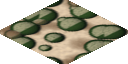
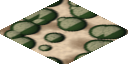
fix(art): keep the winter twig haze off conifer crowns
Crowns paint in size order, so a larger bare crown after a smaller
conifer blended its twigs over the conifer and its snow. Twigs now only
blend where the floor still shows. A test checks that nothing raised in
the winter forest carries the twig tone; the old forest fails it on 409
texels.

Refs #84

Changed region(s): [[0.0312, 0.4688, 0.1562, 0.625], [0.25, 0.3125, 0.375, 0.4062], [0.5312, 0.0, 0.625, 0.125]]

diff --git a/scripts/art/ground.py b/scripts/art/ground.py
@@ -148,6 +148,7 @@ FOLIAGE = {
 }
 CONIFER = (0.18, 0.34, 0.20)
 FLOOR = (0.28, 0.30, 0.15)
+FLOOR_HEIGHT = -0.15
 TWIGS = (0.46, 0.42, 0.38)
 SNOW = (0.84, 0.90, 0.98)  # cool, so the warm sun leaves it white rather than cream
 
@@ -161,7 +162,7 @@ def forest(season: str = "spring") -> Surface:
     rng = np.random.default_rng(11)
     uu, vv = _grid()
     winter = season == "winter"
-    height = np.full((SIZE, SIZE), -0.15)
+    height = np.full((SIZE, SIZE), FLOOR_HEIGHT)
     albedo = np.empty((SIZE, SIZE, 3))
     albedo[:] = SNOW if winter else FLOOR
     albedo *= (1 + 0.12 * noise("forest-floor", 0.1))[..., None]
@@ -174,7 +175,8 @@ def forest(season: str = "spring") -> Surface:
         lift = 0.1 * rng.random()
         d = _wrapped_distance(uu, vv, cu, cv) / radius
         if winter and not conifer:
-            twigs = (d < 1) * (0.35 + 0.45 * lace) * (1 - d.clip(0, 1) ** 2)
+            on_floor = height <= FLOOR_HEIGHT  # never over a crown painted before
+            twigs = (d < 1) * on_floor * (0.35 + 0.45 * lace) * (1 - d.clip(0, 1) ** 2)
             albedo = albedo * (1 - twigs[..., None]) + np.array(TWIGS) * twigs[..., None]
             continue
         crown = np.sqrt(np.clip(1 - d**2, 0, 1)) * min(radius * TILE_METRES, 0.45) + lift

diff --git a/scripts/tests/test_art_ground.py b/scripts/tests/test_art_ground.py
@@ -37,3 +37,12 @@ def test_seasons_differ_and_grass_stays_green() -> None:
 def test_unknown_texture_is_rejected() -> None:
     with pytest.raises(ValueError):
         ground.texture("lava")
+
+
+def test_winter_twigs_stay_off_the_conifers() -> None:
+    """Only conifers rise above the floor in winter; the twig haze must never paint over them."""
+    surface = ground.forest("winter")
+    raised = surface.height > ground.FLOOR_HEIGHT + 1e-6
+    assert raised.any()
+    red, green = surface.albedo[..., 0][raised], surface.albedo[..., 1][raised]
+    assert (red <= green + 0.02).all()
